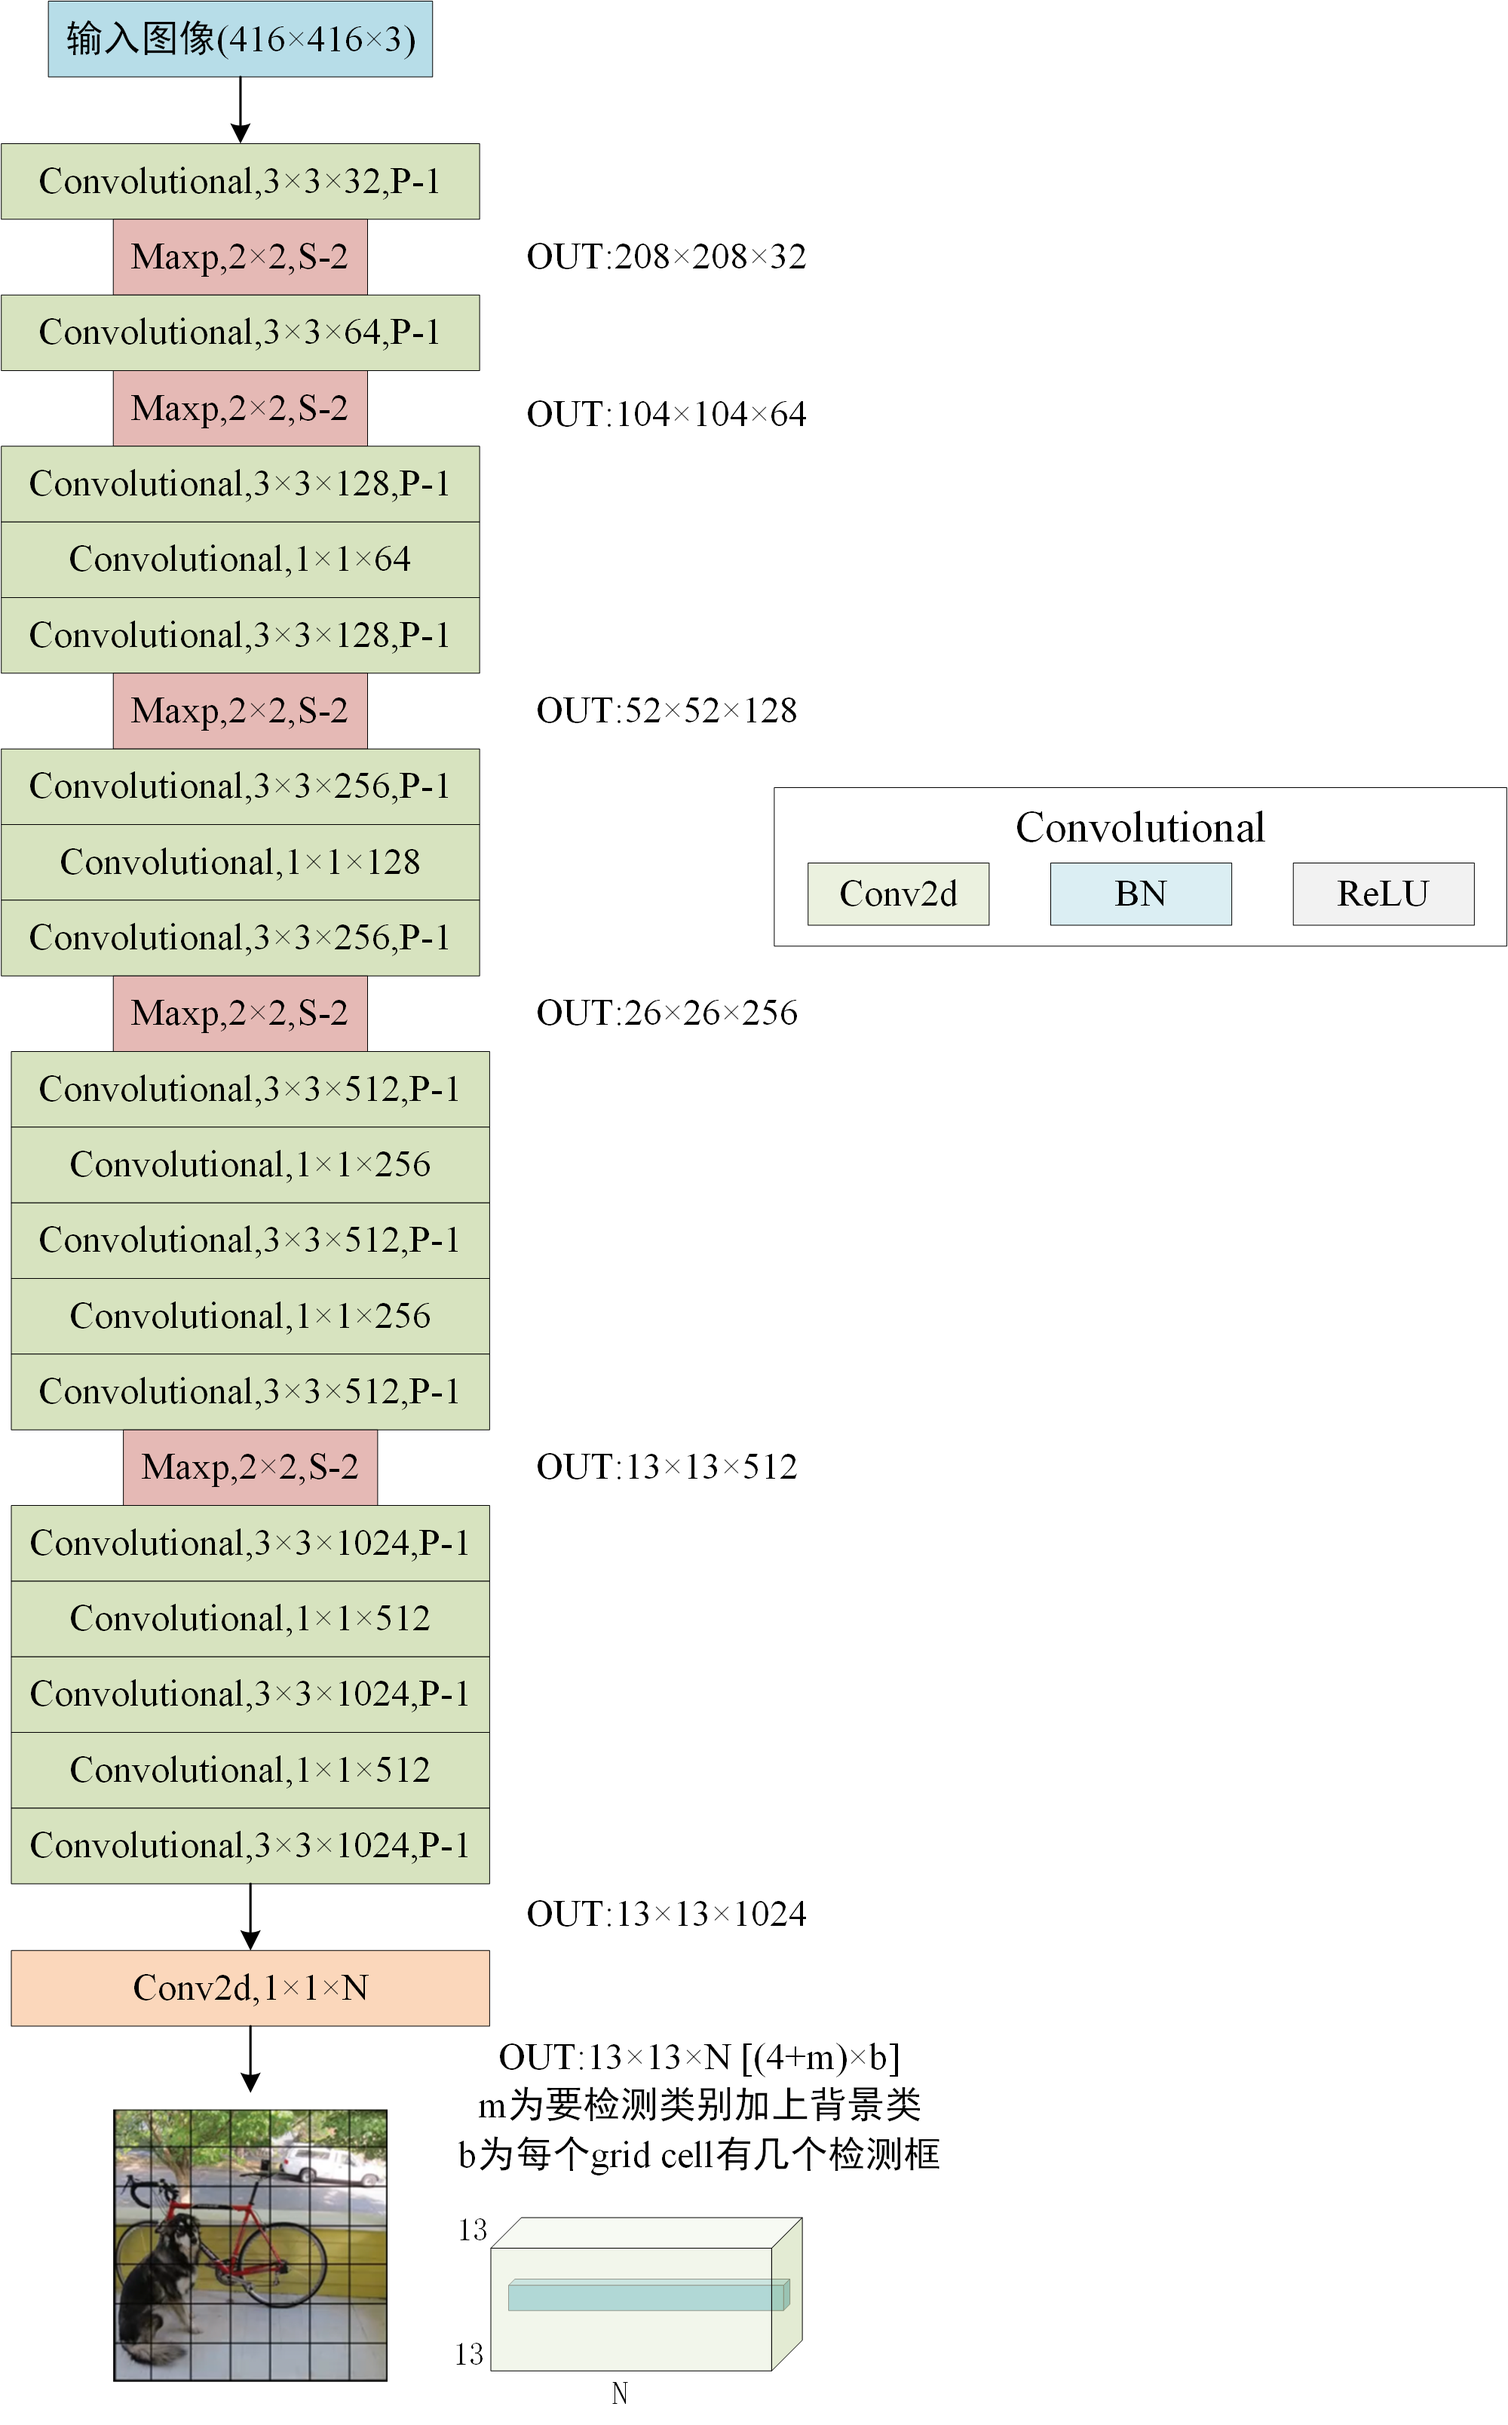
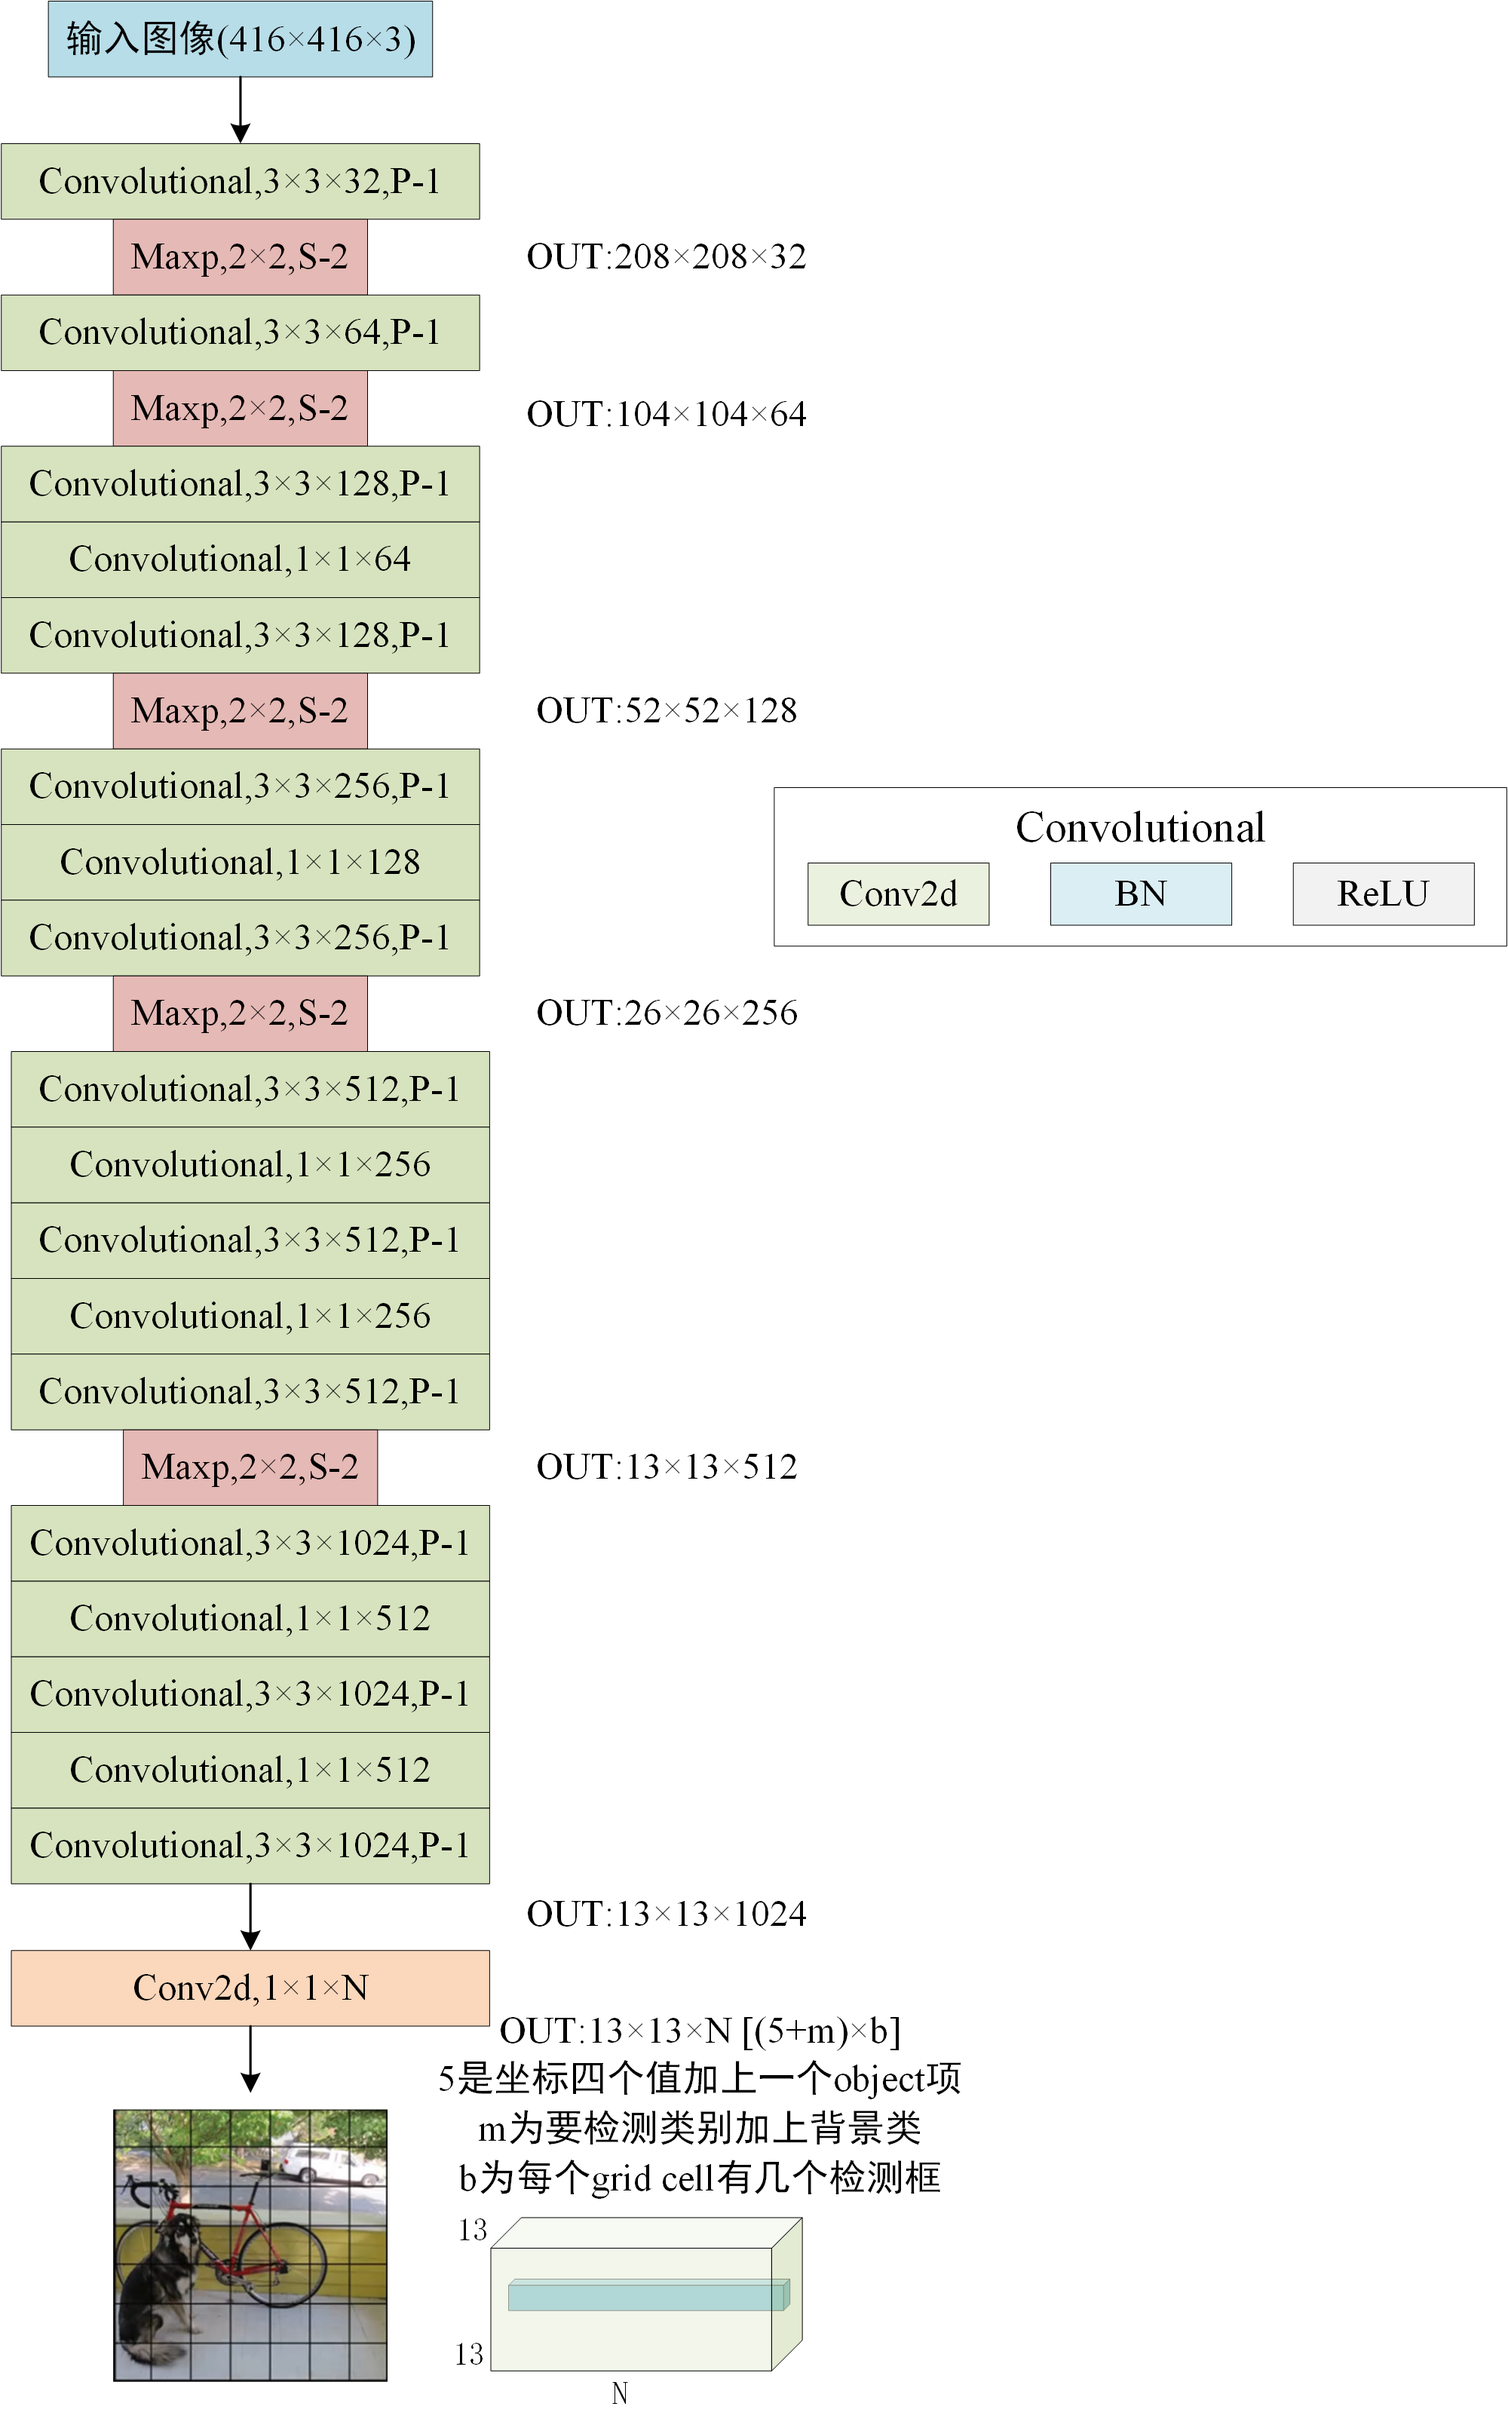
readme更改。

Changed region(s): [[0.31, 0.8396, 0.651, 0.9017]]

diff --git a/README.md b/README.md
@@ -1,6 +1,18 @@
 # my-yolo
-对yolov1与yolov2进行融合更改，用了yolov1的损失函数和检测头，用了yolov2的主体结构，但这在多尺度目标下效果会较差，但好处是较易与实现。  
-每个grid cell的框与真实框通过iou来进行框的匹配。
+$1.$对yolov1与yolov2进行融合更改，用了yolov1的损失函数和检测头，用了yolov2的主体结构，但这在多尺度目标下效果会较差，但好处是较易与实现。  
+$2.$正负样本匹配用yolov3的方法，具体方法如下。每个grid cell的框与真实框通过iou来进行框的匹配。
+- 第一步，如果一个anchor与所有的gt_box的最大 IoU小于ignore_thresh 时，那这个anchor就是负样本。（一般ignore_thresh=0.7）
+- 第二步，如果gt_box的中心点落在一个区域中，该区域就负责检测该物体。将与该物体有最大IoU的anchor作为正样本。注意这里没有用到ignore_thresh, 即使该最大IoU小于ignore_thresh也不会影响该anchor为正样本, 对于其他anchor，若IoU>ignore_thresh, 但不是最佳匹配，设置为忽略样本。  
+
+根据上面匹配规则，yolo3中anchor有三种样本：正样本，负样本，忽略样本。
+- 正样本：和gt_box有最大的IoU，无论是否满足IoU大于ignore_thresh，用1标记
+- 负样本：不是和gt_box有最大IoU的anchor，且IoU 小于ignore_thresh， 用0标记
+- 忽略样本：不是和gt_box有最大IoU的anchor，且IoU 大于 ignore_thresh， 用-1标记
+只有正负样本才参与损失的计算，忽略样本不进损失的计算。
+$3.$正样本的参与分类损失、边界框损失和是否存在物体损失。负样本只参与是否存在物体损失。
 ## 更改
-$1.$ 使用了yolov1的检测头，但是将yolov1的object那项给去掉了，并且每个grid cell有b个框，b是一个超参数。  
-$2.$ 损失函数去掉了object那一项，只有剩下的位置损失与分类损失。只有与真实框匹配的预测框来进行计算位置损失与分类损失。
+$1.$ 使用了yolov1的检测头，并且每个grid cell有b个框，b是一个超参数。
+
+## 注意
+$1.$ 输出中的object那一项不能省略，否则的话负样本就计算不了损失了。
+$2.$ 在后续更改中可以对分类损失改为交叉熵损失并且对交叉熵损失加上focus loss。
